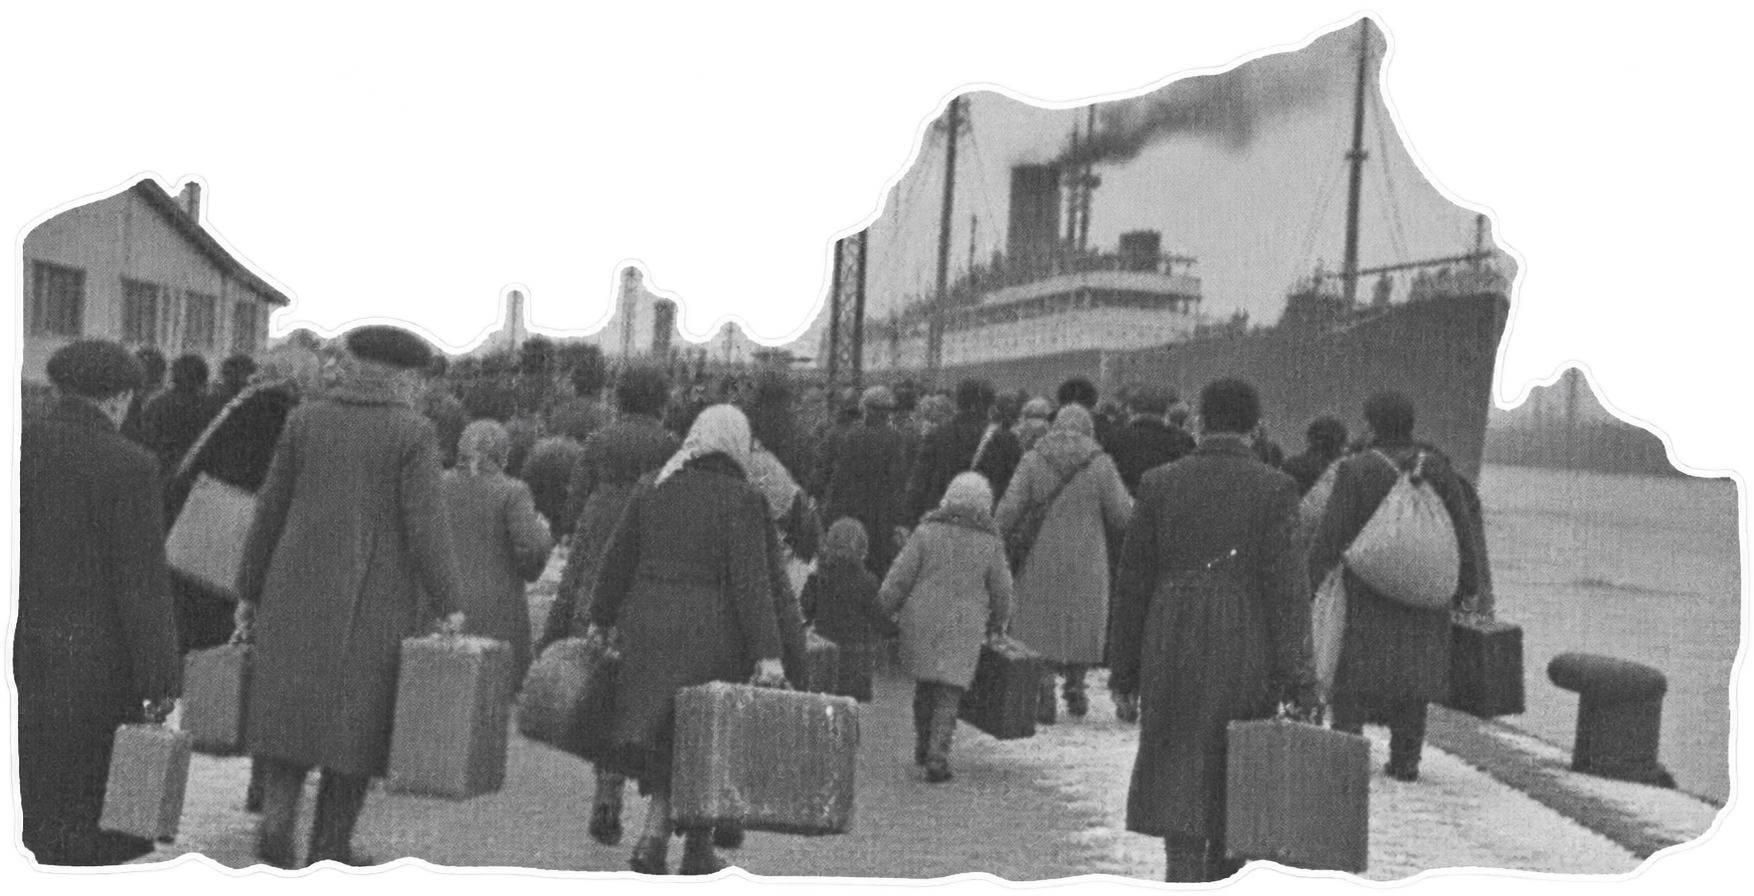
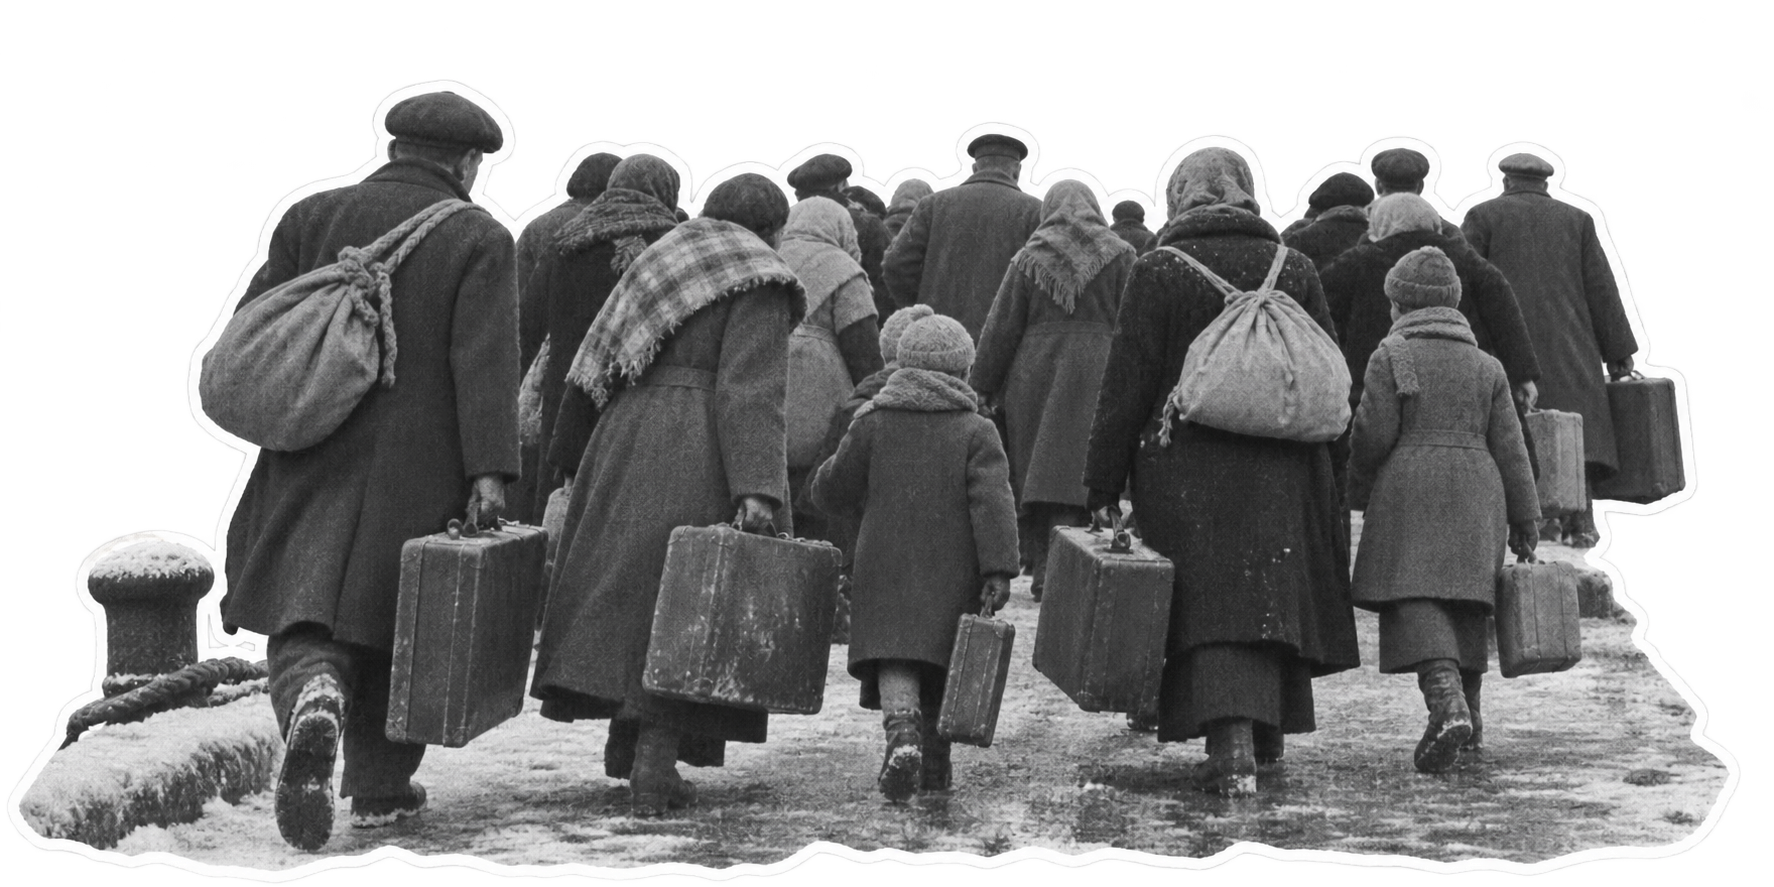
Bernsteinzimmer: sheet S19 v2 (refugees, lifeboat; extra ship)
Claude-Session: https://claude.ai/code/session_01ELWn3TvQSi69zCVub7W5Rc

diff --git a/projects/bernsteinzimmer/assets/manifest.md b/projects/bernsteinzimmer/assets/manifest.md
@@ -76,8 +76,9 @@
 | S18_2_schreibmaschine | Schreibmaschine | vom Nutzer freigestellt |
 | S18_3_streichholz | brennendes Streichholz | vom Nutzer freigestellt |
 | S18_4_kanister | Benzinkanister | vom Nutzer freigestellt |
-| S19_1_hafen_fluechtlinge | Menschen mit Koffern am Hafen | vom Nutzer freigestellt |
+| S19_1_hafen_fluechtlinge | v2 vom Nutzer |
 | S19_2_passagierschiff | Passagierschiff (Gustloff-Stand-in) | vom Nutzer freigestellt |
 | S19_3_uboot | → ersetzt durch N4_uboot_sowjet (US-Boot in alt/) |
-| S19_4_rettungsboot | überfülltes Rettungsboot | vom Nutzer freigestellt |
+| S19_4_rettungsboot | v2 vom Nutzer |
 | N4_uboot_sowjet | sowjetisches U-Boot S-Klasse mit rotem Stern | vom Nutzer freigestellt |
+| S19_2b_passagierschiff_3schorn | Ozeandampfer mit 3 Schornsteinen (NICHT als Gustloff, die hatte 1) | v2 vom Nutzer |
